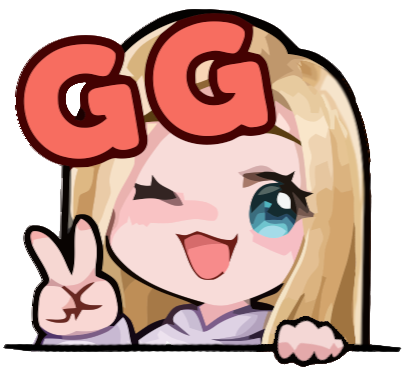
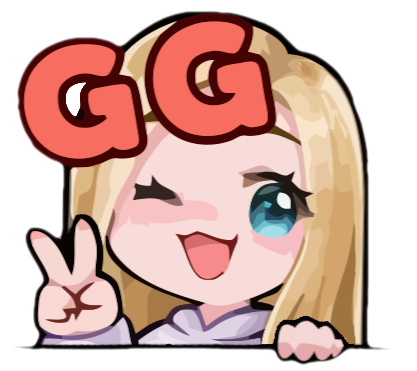
testo dimensioni head

diff --git a/style.css b/style.css
@@ -1,18 +1,33 @@
-h1 {
-    width: 50%;
+ *{ 
+     box-sizing: border-box;
+    }
+
+
+header{
+    width: 400px;
     margin: auto;
     text-align: center;
-    padding: 30px 20px;
-    background-color: aqua;
-    border: 6px solid black;
-    font-family: ;
+    margin-top: 100px;
+ 
+}
+
+h1 {   
+    padding: 25px 20px;
+    background-color: rgb(106, 218, 218);
+    border: 6px solid rgb(34, 32, 32);
+    border-radius: 20px;
+    font-family: 'Lucida Sans', 'Lucida Sans Regular', 'Lucida Grande', 'Lucida Sans Unicode', Geneva, Verdana, sans-serif;
+    font-weight: bold;
+    font-size: 42px;
+    text-shadow: -1px 2px rgb(53, 116, 116);
+
+
     
 }
 
 
 .image{
     width: 220px;
-    margin: auto;
-    display: block;
-    margin-bottom: -15px;
+    margin-bottom: -47px;
 }
+

diff --git a/index.html b/index.html
@@ -5,14 +5,17 @@
     <meta charset="UTF-8">
     <meta http-equiv="X-UA-Compatible" content="IE=edge">
     <meta name="viewport" content="width=device-width, initial-scale=1.0">
-    
+
     <title>Hello HTML</title>
 
     <link rel="stylesheet" type="text/css" href="style.css">
-</head>
+</header>
 
 <body>
-    <h1>Hello World</h1>
+  <header>
+    <img id="img1" class="image" src="img/Immagine1.png" alt="gg">
+    <h1>Hello World!</h1>
+  </head>
 </body>
 
 </html>
